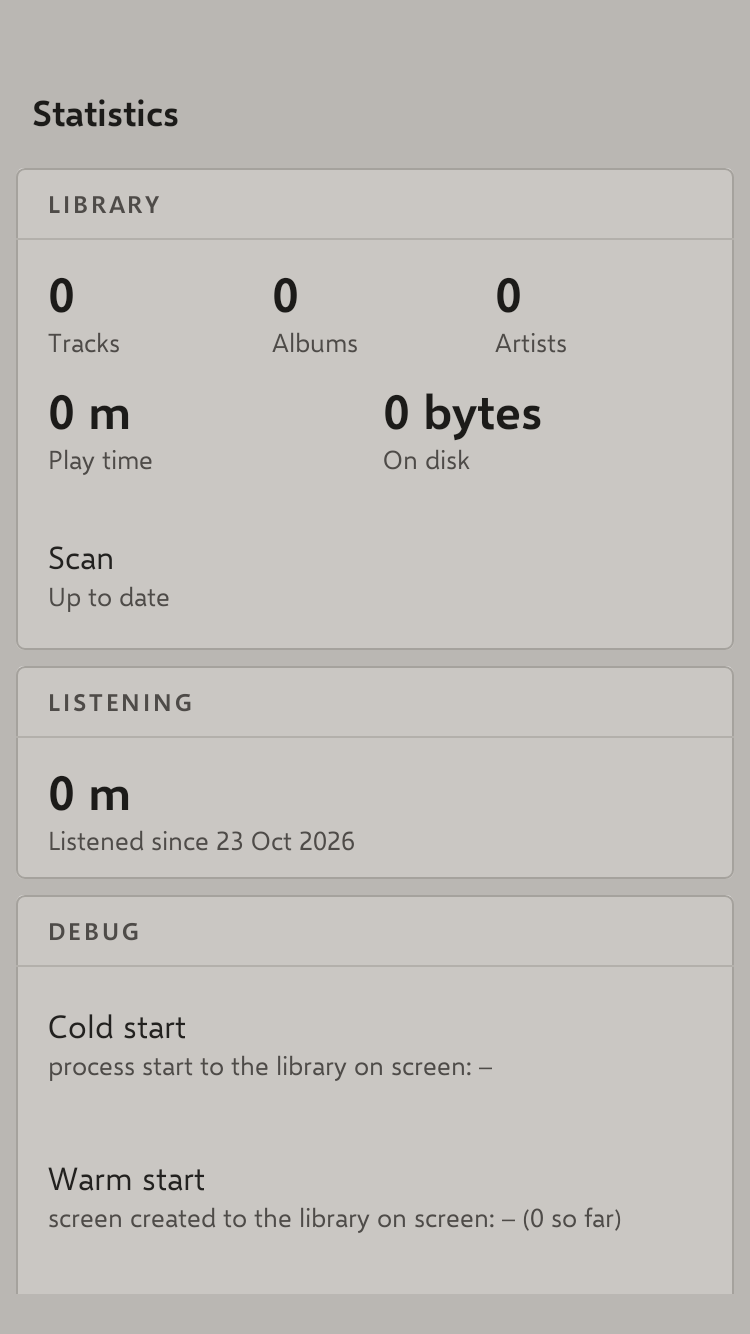
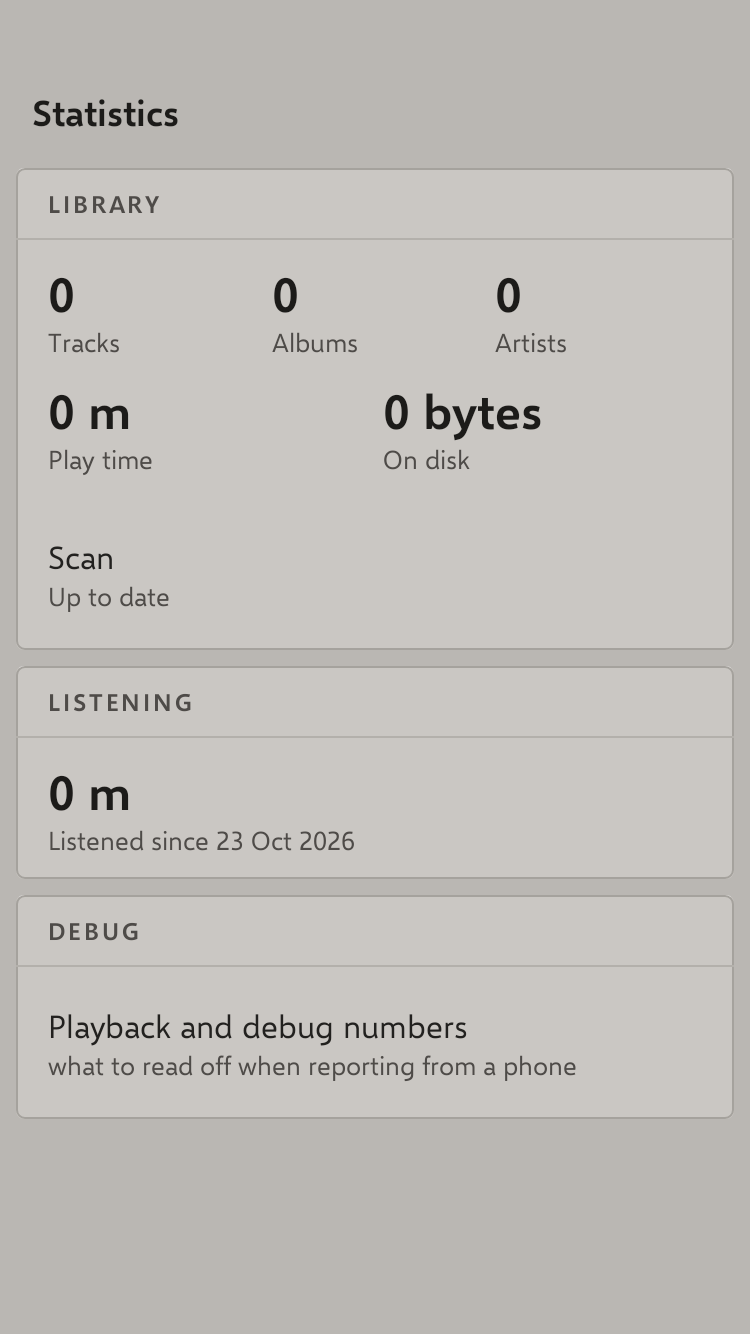
0.2.2: Statistics' playback and debug numbers move to a Debug screen
Statistics now shows Library, Formats and Listening, and its last row
opens a Debug screen holding the Playback and Debug panels unchanged
(still needed for the open device checks). The FiiO signals and Outputs
rows are dropped with the code that fed them; the FiiO receiver stays
for the M21's readout rate. Spec 4.6 updated.

diff --git a/app/src/main/java/com/mpaulrenlund/audiofool/ui/AppRoot.kt b/app/src/main/java/com/mpaulrenlund/audiofool/ui/AppRoot.kt
@@ -72,6 +72,31 @@ fun AppRoot(app: AudioFoolApp, dark: Boolean, openNowPlaying: Int = 0, pickFolde
             disconnect = lastFm::disconnect,
         )
     }
+    // Statistics and its Debug screen (0.2.2) read the same numbers.
+    val debugNumbers = remember {
+        DebugNumbers(
+            startTimes = app.startTimes,
+            thumbnailsDone = { app.art.list.prefilled to app.art.list.prefillTotal },
+            describeFolder = { Storage.describe(context, it) },
+            playback = PlaybackNumbers(
+                nowPlaying = app.nowPlaying,
+                bass = { if (BassRuntime.isInitialised) "BASS ${BassRuntime.version}" else BassRuntime.initError ?: "not started yet (starts on the first play)" },
+                formats = { BassRuntime.availableFormats.joinToString(", ") },
+                missing = { BassRuntime.missingFormats.joinToString(", ") },
+                joins = player::outputStats,
+                output = player::outputDetails,
+                pretendRoute = { player.pretendRoute },
+                cyclePretendRoute = player::cyclePretendRoute,
+            ),
+        )
+    }
+    val debugActions = remember(nav) {
+        DebugActions(
+            showTokenSheet = { nav.open(Route.TokenSheet(SheetPage.Colours1)) },
+            forgetCache = { app.library.deleteCache() },
+            openDebug = { nav.open(Route.Debug) },
+        )
+    }
     LaunchedEffect(openNowPlaying) {
         if (openNowPlaying > 0 && app.nowPlaying.track != null) nav.open(Route.NowPlaying)
     }
@@ -108,26 +133,10 @@ fun AppRoot(app: AudioFoolApp, dark: Boolean, openNowPlaying: Int = 0, pickFolde
                     state = state,
                     stats = remember(library) { LibraryStatistics.compute(library) },
                     listening = app.listening.time,
-                    numbers = DebugNumbers(
-                        startTimes = app.startTimes,
-                        thumbnailsDone = { app.art.list.prefilled to app.art.list.prefillTotal },
-                        describeFolder = { Storage.describe(context, it) },
-                        playback = PlaybackNumbers(
-                            nowPlaying = app.nowPlaying,
-                            bass = { if (BassRuntime.isInitialised) "BASS ${BassRuntime.version}" else BassRuntime.initError ?: "not started yet (starts on the first play)" },
-                            formats = { BassRuntime.availableFormats.joinToString(", ") },
-                            missing = { BassRuntime.missingFormats.joinToString(", ") },
-                            joins = player::outputStats,
-                            output = player::outputDetails,
-                            pretendRoute = { player.pretendRoute },
-                            cyclePretendRoute = player::cyclePretendRoute,
-                        ),
-                    ),
-                    actions = DebugActions(
-                        showTokenSheet = { nav.open(Route.TokenSheet(SheetPage.Colours1)) },
-                        forgetCache = { app.library.deleteCache() },
-                    ),
+                    numbers = debugNumbers,
+                    actions = debugActions,
                 )
+                Route.Debug -> DebugScreen(state, debugNumbers, debugActions)
                 is Route.TokenSheet -> TokenSheet(
                     route.page,
                     Modifier.clickable { nav.replaceTop(Route.TokenSheet(SheetPage.entries[(route.page.ordinal + 1) % SheetPage.entries.size])) },

diff --git a/app/src/main/java/com/mpaulrenlund/audiofool/playback/Player.kt b/app/src/main/java/com/mpaulrenlund/audiofool/playback/Player.kt
@@ -281,10 +281,8 @@ class Player(
         val asked = if (engineMade) engine.askedFormat else null
         return listOf(
             "Route" to "${routes.route.label} · ${routes.deviceSummary()}",
-            "Outputs" to routes.outputsSummary(),
             "Phone" to "${Build.MANUFACTURER} · ${Build.BRAND} · ${Build.MODEL}" +
                 if (routes.speakerIsHeadphones) " · speaker taken as headphones" else "",
-            "FiiO signals" to fiioLog.joinToString("\n").ifEmpty { "none yet" },
             "Bit-Perfect" to "${if (routes.bitPerfectOn) "on" else "off"} · way here: ${routes.way.name}" +
                 if (routes.greyed) " (greyed)" else "",
             "Opened as" to (opened?.let { "${engine.openedPath.name} · ${describe(it)}" + if (it.dop) " · DoP" else "" } ?: "–"),
@@ -584,14 +582,11 @@ class Player(
     /**
      * FiiO's own signals (the M21, 0.1.5): `fiio.intent.action.HEADSET_TYPE_CHANGED`
      * at a plug or unplug and `fiio.intent.action.SAMPLE_RATE_CHANGED` when its
-     * output's rate changes, both sent by FiiO's status bar. What they carry isn't
-     * known yet, so the debug screen shows it, for the readout to use later.
+     * output's rate changes, both sent by FiiO's status bar. The rate is the
+     * readout's on the M21. (0.2.2 dropped the debug screen's log of them: done with.)
      */
     private val fiio = object : BroadcastReceiver() {
         override fun onReceive(context: Context, intent: Intent) {
-            val extras = intent.extras?.let { b -> b.keySet().sorted().joinToString(", ") { "$it=${anyExtra(b, it)}" } } ?: "no extras"
-            val line = "${java.text.SimpleDateFormat("HH:mm:ss", java.util.Locale.ROOT).format(java.util.Date())} ${intent.action?.substringAfterLast('.')}: $extras"
-            fiioLog = (listOf(line) + fiioLog).take(LOG_SIZE)
             // The DAC's rate (0 when stopped, which keeps the last one): the readout's, from now on.
             val rate = intent.extras?.let { anyExtra(it, "rate") }.let { (it as? Number)?.toInt() ?: it?.toString()?.toIntOrNull() } ?: 0
             if (intent.action == FIIO_SAMPLE_RATE_CHANGED && rate > 0) {
@@ -606,9 +601,6 @@ class Player(
      * it says (forgotten whenever an output opens). The M21's readout goes by it.
      */
     private var fiioRate = 0
-
-    /** FiiO's signals as they came, newest first, for the debug screen. */
-    private var fiioLog: List<String> = emptyList()
 
     /** An extra of a type not known in advance (the typed getters need it known). */
     @Suppress("DEPRECATION")

diff --git a/app/src/main/java/com/mpaulrenlund/audiofool/ui/StatisticsScreen.kt b/app/src/main/java/com/mpaulrenlund/audiofool/ui/StatisticsScreen.kt
@@ -70,14 +70,16 @@ class PlaybackNumbers(
 class DebugActions(
     val showTokenSheet: () -> Unit = {},
     val forgetCache: () -> Unit = {},
+    /** Statistics' last row: the Debug screen. */
+    val openDebug: () -> Unit = {},
 )
 
 /**
  * Statistics, from the logo menu (spec 4.6): the library's totals, its formats
  * and the time listened, built as the desktop's Statistics window is (figures in
- * `type.statValue`, labelled bars), in two columns for a phone. Below them, the
- * numbers the user reports back from the phones (the user's call, session 2):
- * playback, start and scan times, and the debug switches.
+ * `type.statValue`, labelled bars), in two columns for a phone. Its last row opens
+ * the Debug screen ([DebugScreen]; the user's call, 0.2.2: until then the
+ * Playback and Debug panels sat here, under the statistics).
  */
 @Composable
 fun StatisticsScreen(
@@ -120,6 +122,20 @@ fun StatisticsScreen(
                 Figures(listOf(Display.longDuration(listening.totalMs) to "Listened since ${date(listening.sinceUtc)}"))
             }
         }
+        Panel("Debug") {
+            SettingRow("Playback and debug numbers", "what to read off when reporting from a phone", onClick = actions.openDebug)
+        }
+    }
+}
+
+/**
+ * The numbers the user reports back from the phones (the user's call, session 2;
+ * a screen of its own since 0.2.2, reached from Statistics): playback, the route
+ * and Bit-Perfect, start and scan times, and the debug switches.
+ */
+@Composable
+fun DebugScreen(state: LibraryState, numbers: DebugNumbers, actions: DebugActions) {
+    TitledScreen("Debug") {
         numbers.playback?.let { PlaybackPanel(it) }
         DebugPanel(state, numbers, actions)
     }

diff --git a/app/src/test/java/com/mpaulrenlund/audiofool/theme/ThemeLabTest.kt b/app/src/test/java/com/mpaulrenlund/audiofool/theme/ThemeLabTest.kt
@@ -20,6 +20,7 @@ import com.mpaulrenlund.audiofool.ui.AppActions
 import com.mpaulrenlund.audiofool.ui.ArtistsScreen
 import com.mpaulrenlund.audiofool.ui.Browse
 import com.mpaulrenlund.audiofool.ui.DebugActions
+import com.mpaulrenlund.audiofool.ui.DebugScreen
 import com.mpaulrenlund.audiofool.ui.DebugNumbers
 import com.mpaulrenlund.audiofool.ui.FolderLine
 import com.mpaulrenlund.audiofool.ui.IndexPreview
@@ -129,6 +130,10 @@ class ThemeLabTest {
                 stats = ThemeLabFixtures.fullLibraryStats,
                 listening = ListeningTime(totalMs = 51_720_000, sinceUtc = 1_792_800_000_000),
             )
+        }
+        // 0.2.2: the Debug screen, reached from Statistics' last row (no playback numbers in ThemeLab).
+        shoot(device, "debug") {
+            DebugScreen(LibraryState(library = ThemeLabFixtures.library), DebugNumbers(StartTimes()), DebugActions())
         }
         shoot(device, "statistics-empty") {
             StatisticsScreen(LibraryState(library = MusicLibrary.Empty), DebugNumbers(StartTimes()), actions = DebugActions(), listening = ListeningTime(sinceUtc = 1_792_800_000_000))

diff --git a/app/src/main/java/com/mpaulrenlund/audiofool/playback/OutputRoutes.kt b/app/src/main/java/com/mpaulrenlund/audiofool/playback/OutputRoutes.kt
@@ -247,10 +247,6 @@ class OutputRoutes(context: Context) {
     /** The rate the system's media output runs at now (what the M21's check compares with the track's). */
     fun systemOutputRate(): Int = runCatching { AudioTrack.getNativeOutputSampleRate(AudioManager.STREAM_MUSIC) }.getOrDefault(0)
 
-    /** Every output Android lists now, for the debug screen: which one the route was taken from. */
-    fun outputsSummary(): String =
-        audioManager.getDevices(AudioManager.GET_DEVICES_OUTPUTS).joinToString(", ") { "${typeName(it.type)} \"${it.productName}\"" }.ifEmpty { "none" }
-
     /** The USB device's mixer entries, grouped, for the debug screen. */
     fun mixerSummary(): String = if (route != OutputRoute.Usb) "–" else if (!MIXER_API) "Android 13: no mixer API" else MixerChoice.summary(usbMixers.entries)
 

diff --git a/app/src/main/java/com/mpaulrenlund/audiofool/ui/Navigation.kt b/app/src/main/java/com/mpaulrenlund/audiofool/ui/Navigation.kt
@@ -40,6 +40,7 @@ sealed interface Route {
     @Serializable data object Search : Route
     @Serializable data object Settings : Route
     @Serializable data object Statistics : Route
+    @Serializable data object Debug : Route
     @Serializable data object NowPlaying : Route
     @Serializable data class TokenSheet(val page: SheetPage) : Route
 }

diff --git a/HANDOFF.md b/HANDOFF.md
@@ -8,6 +8,9 @@ and the lists of what to test on each device). The spec is `design/android-spec.
 
 - **Read, in order:** `CLAUDE.md`, this file, then in `design/progress.md` the Decisions
   sections (0.2.1 down to 0.1.1 at the top, then session 5) and the newest session notes.
+- **On `main`, not released: 0.2.2** (versionCode 15, the user's call): Statistics shows only
+  Library, Formats and Listening; its last row opens a **Debug** screen with the Playback and
+  Debug panels. The FiiO signals and Outputs rows are gone. Confirm before releasing.
 - **Latest: 0.2.1** (versionCode 14), a pre-release,
   <https://github.com/mpaulrenlund/AudioFool-Android/releases/tag/v0.2.1>,
   `dist/AudioFool-0.2.1.apk`, from the user's 0.2.0 report: the Artists letter strip always
@@ -49,7 +52,7 @@ and the lists of what to test on each device). The spec is `design/android-spec.
   - FiiO's own broadcasts reach an exported receiver: `fiio.intent.action.SAMPLE_RATE_CHANGED`
     (`rate`: the DAC's rate, 0 when stopped; `format`) and `fiio.intent.action.HEADSET_TYPE_CHANGED`
     (`type` 8 with headphones in, 0 out). The readout goes by that rate
-    (`OutputReadout.hardwareRate`); Statistics > Playback > FiiO signals lists them.
+    (`OutputReadout.hardwareRate`). 0.1.5's FiiO signals row was dropped in 0.2.2.
   - The DAC runs at the song's rate even with BP off ("Headphones · Shared · 96 kHz"); BP adds
     the full-volume, whole-number-sample path. 24-bit songs go as 32-bit with BP on, as
     float with it off: **24-bit packed `AudioTrack`s come out as static there.**
@@ -71,7 +74,7 @@ and the lists of what to test on each device). The spec is `design/android-spec.
   USB reconnected and caught little.
 - **The S24 can't use a cable while testing the DAC** (one USB-C port). Wireless debugging
   was tried and the user couldn't get the pairing step to work, so S24 results come as typed
-  readings from Statistics > Playback. Never type a pairing code for the user.
+  readings from Statistics > Debug (Playback). Never type a pairing code for the user.
 - **The emulator** holds the sample music (`/sdcard/Music`, with `Long/`: 200 artists × 2
   albums of silent MP3s, `Gapless Live/`: three songs of exactly 12.000 s; and on the SD card,
   `/storage/0000-0000/Music`, part of the sample set and `SD Card Band/`: two 3-minute FLACs
@@ -181,7 +184,7 @@ Playback, as the emulator shows it (release builds too):
 
 - `adb logcat -s AudioFoolPlay:I` logs each output opened ("44.1 kHz / 16-bit, 2 ch →
   output 44.1 kHz / 16-bit, 2 ch") and each song heard, with the joins, reopens and
-  underruns so far. Statistics > Playback shows the same.
+  underruns so far. Statistics > Debug > Playback shows the same.
 - Gapless: play `Gapless Live` (three songs of exactly 12.000 s). Two joins and 0 underruns
   means one `AudioTrack` that never ran dry, **not** that the join is clean: also check
   the logcat `heard` lines come about 12.0 s apart. Up to 0.1.0 they came 12.7 s apart,
@@ -194,12 +197,12 @@ Playback, as the emulator shows it (release builds too):
 - The shade's media player: `adb shell cmd statusbar expand-notifications`. The AVD has no
   lock screen set, so waking it shows the app; the lock screen is checked on the S24.
 - **Bit-Perfect on the emulator:** its only output is the speaker, so BP is greyed. Statistics >
-  Playback > **Pretend route (emulator test)** cycles off → Headphones (the M21's way) → USB
+  Debug > Playback > **Pretend route (emulator test)** cycles off → Headphones (the M21's way) → USB
   (a made-up bit-perfect mixer, never sent to Android) → off; not saved. With USB and BP on,
   a 24/96 FLAC opens "(BitPerfect)" and the DFF opens as DoP at 176.4 kHz. The logcat
   `opened` lines end with the path and the route.
-- The logo button is at (74, 137) in device pixels; Statistics' Pretend row is at the bottom
-  of the Playback panel (swipe up twice). Too many BACKs leave the app, and the next tap
+- The logo button is at (74, 137) in device pixels; the Debug screen is the last row of
+  Statistics (swipe up three times), and its Pretend row ends the Playback panel. Too many BACKs leave the app, and the next tap
   lands on the home screen.
 
 Then, with `MSYS_NO_PATHCONV=1`:
@@ -229,8 +232,9 @@ Then, with `MSYS_NO_PATHCONV=1`:
    `design/progress.md`.
 
 Logs can't be read off the phones, so anything the user reports back is on the screen:
-logo > **Statistics** shows the library line and the Debug panel (counts, start times,
-cache and scan numbers, formats, covers filled, the mini player preview, the token sheet).
+logo > **Statistics** shows the library line; its last row opens **Debug** (since 0.2.2): the
+Playback panel (route, Bit-Perfect, mixers, what each song opened as) and the Debug panel
+(start times, cache and scan numbers, formats, covers filled, the token sheet).
 
 ### Checking a screen against the mockups
 
@@ -284,7 +288,7 @@ mockups' 28 dp status row and 20 dp handle as insets, so the two line up.
   changes. The readout names the route.
 - **Checked only on the emulator**, with the pretend route: nothing about a real DAC or the
   M21's bypass is known yet; that's the v0.0.5 lists in `design/progress.md`.
-- **What the user reports** is on Statistics > Playback: Route, Bit-Perfect, Opened as,
+- **What the user reports** is on Statistics > Debug > Playback: Route, Bit-Perfect, Opened as,
   System output, Direct, USB mixers, Mixer set.
 
 ## Where things stood after session 3
@@ -324,7 +328,7 @@ mockups' 28 dp status row and 20 dp handle as insets, so the two line up.
 - **GitHub:** the repo is public (the user's call). This PC pushes and releases as
   `marcusrenlund`, a collaborator with write access; `gh` is signed in as that account.
 - **Keep the debug numbers reachable** (the user reports them back, and later sessions
-  add to them): `ui/StatisticsScreen.kt`'s `DebugPanel`.
+  add to them): `ui/StatisticsScreen.kt`'s `DebugScreen` (Playback and Debug panels).
 - `LibraryRepository` is the library: cache first, then a background rescan; the scan
   reuses tags for files whose size and date haven't changed, and carries over every
   track of a folder it can't reach.

diff --git a/design/progress.md b/design/progress.md
@@ -14,6 +14,7 @@ Update this at the end of every session: tick off what's finished, note anything
 - [x] **0.1.3**: the M21 recognised by its speaker's name; unplug from the jack — 2026-10-25
 - [x] **0.1.4**: no click at a restart or a tap (the desktop's seek fade) — 2026-10-25
 - [x] **0.1.5**: unplug pauses on the M21; its readout goes by FiiO's reported rate (both checked on the M21 over adb) — 2026-10-25
+- [ ] **0.2.2**: Statistics' Playback and Debug panels moved to a Debug screen — built and checked on the emulator 2026-10-25, not released
 - [x] **0.2.1**: the letter strip always shown; swipe-to-skip no longer leaves the art off the screen — 2026-10-25, released as a pre-release (the stuck art still to confirm on the S24)
 - [x] **0.2.0**: the Artists letter strip; Now Playing swipes sideways to skip (no swipe down); the seekbar glides — 2026-10-25, released as a pre-release
 
@@ -35,6 +36,21 @@ The user made these while the mockups were designed (October 2026). The spec alr
 - **Theme** defaults to Dark and switches by hand.
 
 ## Decisions made for the build
+
+0.2.2, not released yet (2026-10-25):
+
+- **Statistics cleaned up** (the user asked; my recommendation, their call): Statistics shows
+  Library, Formats and Listening, then a DEBUG panel whose one row opens a new **Debug**
+  screen holding the Playback and Debug panels unchanged. They stay because open device
+  items are read off them (the S24 DAC's Route row, DoP, a rate change with BP on, BP greyed
+  on Bluetooth, the M21's full-library start and scan). Every "Statistics > Playback" in
+  the lists below is now **Statistics > Debug**.
+- **Dropped:** the **FiiO signals** row (0.1.5; the M21's readout uses the rate, the log was
+  only for finding it) and the **Outputs** row (0.1.1; only for naming the M21's jack), with
+  the code that fed them. The FiiO receiver stays for the rate.
+- **Checked:** ThemeLab `debug` (new) and `statistics-empty` (the new row), both themes and
+  sizes; on the emulator: Statistics ends with the row, Debug shows Playback (Route, Phone,
+  Bit-Perfect, …, no Outputs or FiiO rows) and Debug, Back returns to Statistics.
 
 0.2.1 (2026-10-25), released as pre-release [`v0.2.1`](https://github.com/mpaulrenlund/AudioFool-Android/releases/tag/v0.2.1) ("AudioFool 0.2.1", versionCode 14), from the user's report on 0.2.0 (S24):
 
@@ -739,6 +755,15 @@ Started early (session 1, `v0.0.1`): the M21 has the SD card slot, and the full 
 - [ ] **SD card out.** With the app open, eject or remove the card: the counts stay the same, and the LIBRARY line says "Unavailable: SD card · Music (N tracks kept)". Open the app with the card still out: the same. Put it back: "Up to date", nothing removed.
 
 ## Session notes
+
+### 0.2.2 — a Debug screen (2026-10-25)
+
+**Changed:** `StatisticsScreen.kt` (`DebugScreen`, the row, `DebugActions.openDebug`),
+`Route.Debug`, `AppRoot` (one `DebugNumbers` for both screens), `Player.outputDetails` and
+`OutputRoutes` (the two rows gone), ThemeLab `debug`, spec 4.6.
+
+**Verified:** `:core:test`, `:app:testDebugUnitTest`, recorded pictures, the release build
+on the emulator (above).
 
 ### 0.2.1 — the strip always shown, the stuck art (2026-10-25)
 

diff --git a/design/android-spec.md b/design/android-spec.md
@@ -108,7 +108,7 @@ There's no mockup. Build it from the same parts (panels, headers, rows, `type.st
 - **Formats**: tracks per format (FLAC, DSD, MP3, …), using the desktop's format names (`AudioFormats`).
 - **Listening time**: total time listened, recorded by the app from now on.
 
-As built (session 5, approved from screenshots): LIBRARY holds Tracks, Albums and Artists in one row and Play time and On disk in the next, as `type.statValue` figures with a label under each, then the scan line. FORMATS has one bar row per format (label; "count · share · size"; a `playbackBar.trackHeight` bar in `slider.volumeFill` on `slider.track`). LISTENING shows the time and "Listened since <date>". The Playback and Debug panels follow.
+As built (session 5, approved from screenshots): LIBRARY holds Tracks, Albums and Artists in one row and Play time and On disk in the next, as `type.statValue` figures with a label under each, then the scan line. FORMATS has one bar row per format (label; "count · share · size"; a `playbackBar.trackHeight` bar in `slider.volumeFill` on `slider.track`). LISTENING shows the time and "Listened since <date>". Then a DEBUG panel with one row, "Playback and debug numbers", which opens the **Debug** screen: the Playback and Debug panels (what the user reads off when reporting from a phone). They sat on Statistics itself until 0.2.2 (the user's call).
 
 ## 5. Now Playing
 
